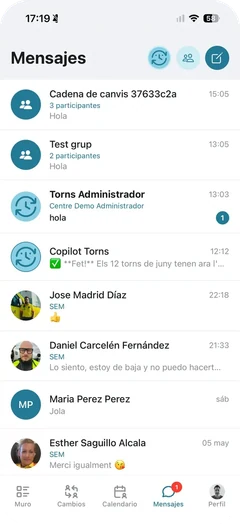
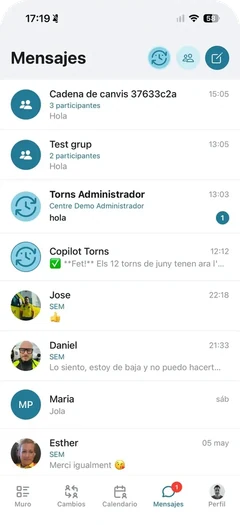
Messages screenshot: first names only; versioned screenshot URLs
- screen-2905 (Mensajes) showed full names; the surnames of Jose, Daniel,
  Maria and Esther are painted over with the row background.
- Screenshots (components/phone and the carousel) use torns_asset(), so
  a changed image under the same name gets a new URL past the browsers'
  ten-year cache.

Claude-Session: https://claude.ai/code/session_01LsCvuMqx2FFpfAEydcq391

diff --git a/platform/themes/torns/partials/shortcodes/gallery.blade.php b/platform/themes/torns/partials/shortcodes/gallery.blade.php
@@ -2,7 +2,7 @@
     $title = $shortcode->title ?: __('No querrás salir de la app');
     $subtitle = $shortcode->subtitle ?: __('Diseño sencillo, claro y minimalista, con la lógica de los profesionales de la salud.');
     // Screens extracted from the store mockups, without the phone frame.
-    $screenUrl = fn (string $name, int $width) => Theme::asset()->url("images/home/screens/{$name}-flat-{$width}.webp");
+    $screenUrl = fn (string $name, int $width) => torns_asset("images/home/screens/{$name}-flat-{$width}.webp");
 
     // Store mockups of the current website, in its order.
     $screens = [

diff --git a/platform/themes/torns/partials/components/phone.blade.php b/platform/themes/torns/partials/components/phone.blade.php
@@ -10,8 +10,8 @@
     $large = $small * 2;
     $ratio = $flat ? 1054 / 482 : 2000 / 920;
     $base = 'images/home/screens/' . $name . ($flat ? '-flat' : '');
-    $src = Theme::asset()->url("{$base}-{$large}.webp");
-    $srcset = Theme::asset()->url("{$base}-{$small}.webp") . " {$small}w, {$src} {$large}w";
+    $src = torns_asset("{$base}-{$large}.webp");
+    $srcset = torns_asset("{$base}-{$small}.webp") . " {$small}w, {$src} {$large}w";
     $sizes = $sizes ?? '(min-width: 1024px) 16rem, 60vw';
     $eager = $eager ?? false;
     $tilt = $tilt ?? null;
